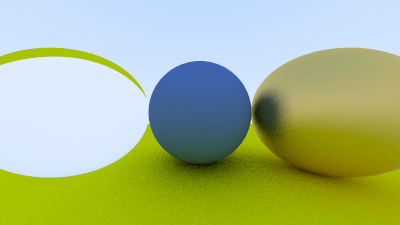
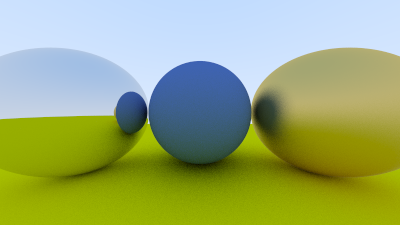
more rays for image

Changed region(s): [[0.0, 0.1867, 0.45, 0.9022]]

diff --git a/main.py b/main.py
@@ -16,12 +16,12 @@ def main():
     )
     metal_mat = Material(color(0.8, 0.8, 0.8), reflectance=1.0)
     fuzzy_mat = Material(color(0.8, 0.6, 0.2), reflectance=1.0, fuzziness=0.5)
-    dielectric_mat = Material(color(1.0, 1.0, 1.0), 0., 0., 1.5, 1.0)
+    # dielectric_mat = Material(color(1.0, 1.0, 1.0), 0., 0., 1.5, 1.0)
     scene = Scene(
         objects=[
             Sphere(point(0.0, -100.5, -1), 100.0, yellow_mat),
             Sphere(point(0, 0.0, -1.2), 0.5, blue_mat),
-            Sphere(point(-1.0, 0.0, -1.0), 0.5, dielectric_mat),
+            Sphere(point(-1.0, 0.0, -1.0), 0.5, metal_mat),
             Sphere(point(1.0, 0.0, -1.0), 0.5, fuzzy_mat),
         ]
     )
@@ -30,7 +30,7 @@ def main():
         image_width=400,
         image_height=225,
         focal_length=1.0,
-        samples_per_pixel=100,
+        samples_per_pixel=400,
         sensor_height=2.0,
         max_depth=10,
     )
